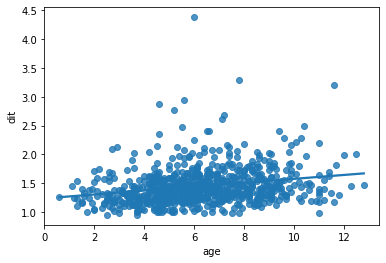
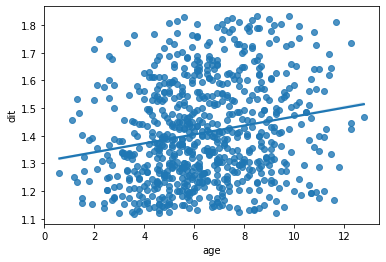
Update chart without outliers

diff --git a/Trabalho 2/scripts/Lab02S03.py b/Trabalho 2/scripts/Lab02S03.py
@@ -4,68 +4,76 @@ import seaborn as sns
 from scipy import stats
 
 df = pd.read_csv("../files/analysed-java-repos-fixed.csv", sep=";")
-q_low = df["lcom"].quantile(0.1)
-q_hi = df["lcom"].quantile(0.9)
+q_low_lcom = df["lcom"].quantile(0.1)
+q_hi_lcom = df["lcom"].quantile(0.9)
+df_for_lcom = df[(df["lcom"] < q_hi_lcom) & (df["lcom"] > q_low_lcom)]
 
-df_filtered = df[(df["lcom"] < q_hi) & (df["lcom"] > q_low)]
+q_low_cbo = df["cbo"].quantile(0.1)
+q_hi_cbo = df["cbo"].quantile(0.9)
+df_for_cbo = df[(df["cbo"] < q_hi_cbo) & (df["cbo"] > q_low_cbo)]
+
+q_low_dit = df["dit"].quantile(0.1)
+q_hi_dit = df["dit"].quantile(0.9)
+df_for_dit = df[(df["dit"] < q_hi_dit) & (df["dit"] > q_low_dit)]
+
 
 # popularidade
 
-# r, _ = stats.spearmanr(df_filtered['stars'], df_filtered['lcom'])
-# sns.regplot(x="stars", y="lcom", data=df_filtered, ci=25,)
+# r, _ = stats.spearmanr(df_for_lcom['stars'], df_for_lcom['lcom'])
+# sns.regplot(x="stars", y="lcom", data=df_for_lcom, ci=25,)
 # print(f"Coeficiente de correlação de Spearman para estrelas e lcom r = {r}")
 
-# r, _ = stats.spearmanr(df_filtered['stars'], df_filtered['cbo'])
-# sns.regplot(x="stars", y="cbo", data=df_filtered, ci=25)
+# r, _ = stats.spearmanr(df_for_cbo['stars'], df_for_cbo['cbo'])
+# sns.regplot(x="stars", y="cbo", data=df_for_cbo, ci=25)
 # print(f"Coeficiente de correlação de Spearman para estrelas e cbo r = {r}")
 
-# r, _ = stats.spearmanr(df_filtered['stars'], df_filtered['dit'])
-# sns.regplot(x="stars", y="dit", data=df_filtered, ci=25)
+# r, _ = stats.spearmanr(df_for_dit['stars'], df_for_dit['dit'])
+# sns.regplot(x="stars", y="dit", data=df_for_dit, ci=25)
 # print(f"Coeficiente de correlação de Spearman para estrelas e dit r = {r}")
 
 
 # maturidade
 
-# r, _ = stats.spearmanr(df_filtered['age'], df_filtered['lcom'])
-# sns.regplot(x="age", y="lcom", data=df_filtered, ci=25)
+# r, _ = stats.spearmanr(df_for_lcom['age'], df_for_lcom['lcom'])
+# sns.regplot(x="age", y="lcom", data=df_for_lcom, ci=25)
 # print(f"Coeficiente de correlação de Spearman para age and lcom r = {r}")
 
-# r, _ = stats.spearmanr(df_filtered['age'], df_filtered['cbo'])
-# sns.regplot(x="age", y="cbo", data=df_filtered, ci=25)
+# r, _ = stats.spearmanr(df_for_cbo['age'], df_for_cbo['cbo'])
+# sns.regplot(x="age", y="cbo", data=df_for_cbo, ci=25)
 # print(f"Coeficiente de correlação de Spearman para age and cbo r = {r}")
 
-# r, _ = stats.spearmanr(df_filtered['age'], df_filtered['dit'])
-# sns.regplot(x="age", y="dit", data=df_filtered, ci=25)
+# r, _ = stats.spearmanr(df_for_dit['age'], df_for_dit['dit'])
+# sns.regplot(x="age", y="dit", data=df_for_dit, ci=25)
 # print(f"Coeficiente de correlação de Spearman para age and dti r = {r}")
 
 
 # atividade
 
-# r, _ = stats.spearmanr(df_filtered['releases'], df_filtered['lcom'])
-# sns.regplot(x="releases", y="lcom", data=df_filtered, ci=25)
+# r, _ = stats.spearmanr(df_for_lcom['releases'], df_for_lcom['lcom'])
+# sns.regplot(x="releases", y="lcom", data=df_for_lcom, ci=25)
 # print(f"Coeficiente de correlação de Spearman para releases and lcom r = {r}")
 
-# r, _ = stats.spearmanr(df_filtered['releases'], df_filtered['cbo'])
-# sns.regplot(x="releases", y="cbo", data=df_filtered, ci=25)
+# r, _ = stats.spearmanr(df_for_cbo['releases'], df_for_cbo['cbo'])
+# sns.regplot(x="releases", y="cbo", data=df_for_cbo, ci=25)
 # print(f"Coeficiente de correlação de Spearman para releases and cbo r = {r}")
 
-# r, _ = stats.spearmanr(df_filtered['releases'], df_filtered['dit'])
-# sns.regplot(x="releases", y="dit", data=df_filtered, ci=25)
+# r, _ = stats.spearmanr(df_for_dit['releases'], df_for_dit['dit'])
+# sns.regplot(x="releases", y="dit", data=df_for_dit, ci=25)
 # print(f"Coeficiente de correlação de Spearman para releases and dit r = {r}")
 
 
 # tamanho
 
-# r, _ = stats.spearmanr(df_filtered['loc'], df_filtered['lcom'])
-# sns.regplot(x="loc", y="lcom", data=df_filtered, ci=25)
+# r, _ = stats.spearmanr(df_for_lcom['loc'], df_for_lcom['lcom'])
+# sns.regplot(x="loc", y="lcom", data=df_for_lcom, ci=25)
 # print(f"Coeficiente de correlação de Spearman para loc and lcom r = {r}")
 
-# r, _ = stats.spearmanr(df_filtered['loc'], df_filtered['cbo'])
-# sns.regplot(x="loc", y="cbo", data=df_filtered, ci=25)
+# r, _ = stats.spearmanr(df_for_cbo['loc'], df_for_cbo['cbo'])
+# sns.regplot(x="loc", y="cbo", data=df_for_cbo, ci=25)
 # print(f"Coeficiente de correlação de Spearman para loc and cbo r = {r}")
 
-# r, _ = stats.spearmanr(df_filtered['loc'], df_filtered['dit'])
-# sns.regplot(x="loc", y="dit", data=df_filtered, ci=25)
+# r, _ = stats.spearmanr(df_for_dit['loc'], df_for_dit['dit'])
+# sns.regplot(x="loc", y="dit", data=df_for_dit, ci=25)
 # print(f"Coeficiente de correlação de Spearman para loc and dit r = {r}")
 
 # %%

diff --git a/Trabalho 2/Relatório.md b/Trabalho 2/Relatório.md
@@ -58,7 +58,7 @@ Por fim, após os dados necessários salvos, torna-se viavel a construção dos 
 
     <div style="text-align: center">
     <img src="charts/Q1_stars_cbo.png" alt="RQ Q1 Gráfico">
-    <p>Coeficiente de correlação de Spearman para estrelas e cbo r = 0.0250965167242702</p>
+    <p>Coeficiente de correlação de Spearman para estrelas e cbo r = 0.01114985741684774</p>
     </div>
 
     Como resultado, obtemos uma relação insignificante entre esses dois aspectos, mesmo tendo os 5 primeiros repositórios com mais estrelas, com CBO abaixo da média.
@@ -73,7 +73,7 @@ Por fim, após os dados necessários salvos, torna-se viavel a construção dos 
 
     <div style="text-align: center">
     <img src="charts/Q1_stars_dit.png" alt="RQ Q1 Gráfico">
-    <p>Coeficiente de correlação de Spearman para estrelas e dit r = -0.042632970959975786</p>
+    <p>Coeficiente de correlação de Spearman para estrelas e dit r = -0.010310920299837729</p>
     </div>
 
     Apesar do gráfico exibir uma reta decrescente, assim como na analise anterior com o COB, não podemos afirmar que esse grafico ilustra um correlação direta entre os eixo, mesmo mostrando os 5 repositórios mais populares abaixo da média de DTI. O coeficiente de correlação tbm aponta a desconexão dos dados apresentados.
@@ -97,7 +97,7 @@ Por fim, após os dados necessários salvos, torna-se viavel a construção dos 
 
     <div style="text-align: center">
     <img src="charts/Q2_age_cbo.png" alt="RQ Q2 Gráfico">
-    <p>Coeficiente de correlação de Spearman para estrelas e dit r = 0.032239205124179965</p>
+    <p>Coeficiente de correlação de Spearman para age and cbo r = 0.04701408861603262</p>
     </div>
     
 ***Idade x DIT***
@@ -107,7 +107,7 @@ Por fim, após os dados necessários salvos, torna-se viavel a construção dos 
 
     <div style="text-align: center">
     <img src="charts/Q2_age_dit.png" alt="RQ Q2 Gráfico">
-    <p>Coeficiente de correlação de Spearman para estrelas e dit r = 0.27201636307400934</p>
+    <p>Coeficiente de correlação de Spearman para age and dti r = 0.19844914547241582</p>
     </div>
 
 ### RQ Q3 - Qual a relação entre a atividade dos repositórios e as suas características de qualidade?  
@@ -118,7 +118,7 @@ Por fim, após os dados necessários salvos, torna-se viavel a construção dos 
 - **Resultados**:
 
     <div style="text-align: center">
-    <img src="charts/Q2_releases_lcom.png" alt="RQ Q1 Gráfico">
+    <img src="charts/Q3_releases_lcom.png" alt="RQ Q1 Gráfico">
     <p>Coeficiente de correlação de Spearman para releases and lcom r = 0.29488717154797317</p>
     </div>
 
@@ -128,8 +128,8 @@ Por fim, após os dados necessários salvos, torna-se viavel a construção dos 
 - **Resultados**:
 
     <div style="text-align: center">
-    <img src="charts/Q2_releases_cbo.png" alt="RQ Q1 Gráfico">
-    <p>Coeficiente de correlação de Spearman para releases and cbo r = 0.33164369829958357</p>
+    <img src="charts/Q3_releases_cbo.png" alt="RQ Q1 Gráfico">
+    <p>Coeficiente de correlação de Spearman para releases and cbo r = 0.23914772455719774</p>
     </div>
     
 ***Releases x DIT***
@@ -138,8 +138,8 @@ Por fim, após os dados necessários salvos, torna-se viavel a construção dos 
 - **Resultados**:
 
     <div style="text-align: center">
-    <img src="charts/Q2_releases_dit.png" alt="RQ Q1 Gráfico">
-    <p>Coeficiente de correlação de Spearman para releases and dit r = 0.16922745899406438</p>
+    <img src="charts/Q3_releases_dit.png" alt="RQ Q1 Gráfico">
+    <p>Coeficiente de correlação de Spearman para releases and dit r = 0.09810236267773546</p>
     </div>
 
 ### RQ Q4 - Qual a relação entre o tamanho dos repositórios e as suas características de qualidade?  
@@ -151,7 +151,7 @@ Por fim, após os dados necessários salvos, torna-se viavel a construção dos 
 
     <div style="text-align: center">
     <img src="charts/Q4_tamanho_lcom.png" alt="RQ Q4 Gráfico">
-    <p>Coeficiente de correlação de Spearman para releases and lcom r = 0.9463379680074533</p>
+    <p>Coeficiente de correlação de Spearman para loc and lcom r = 0.9463379680074533</p>
     </div>
 
 ***LOC x CBO***
@@ -161,7 +161,7 @@ Por fim, após os dados necessários salvos, torna-se viavel a construção dos 
 
     <div style="text-align: center">
     <img src="charts/Q4_tamanho_cbo.png" alt="RQ Q4 Gráfico">
-    <p>Coeficiente de correlação de Spearman para releases and lcom r = 0.2969131426139457</p>
+    <p>Coeficiente de correlação de Spearman para loc and cbo r = 0.3074195157748057</p>
     </div>
     
 ***LOC x DIT***
@@ -171,5 +171,5 @@ Por fim, após os dados necessários salvos, torna-se viavel a construção dos 
 
     <div style="text-align: center">
     <img src="charts/Q4_tamanho_dit.png" alt="RQ Q4 Gráfico">
-    <p>Coeficiente de correlação de Spearman para releases and lcom r = 0.2177807637921991</p>
+    <p>Coeficiente de correlação de Spearman para loc and dit r = 0.2116342579005864</p>
     </div>
